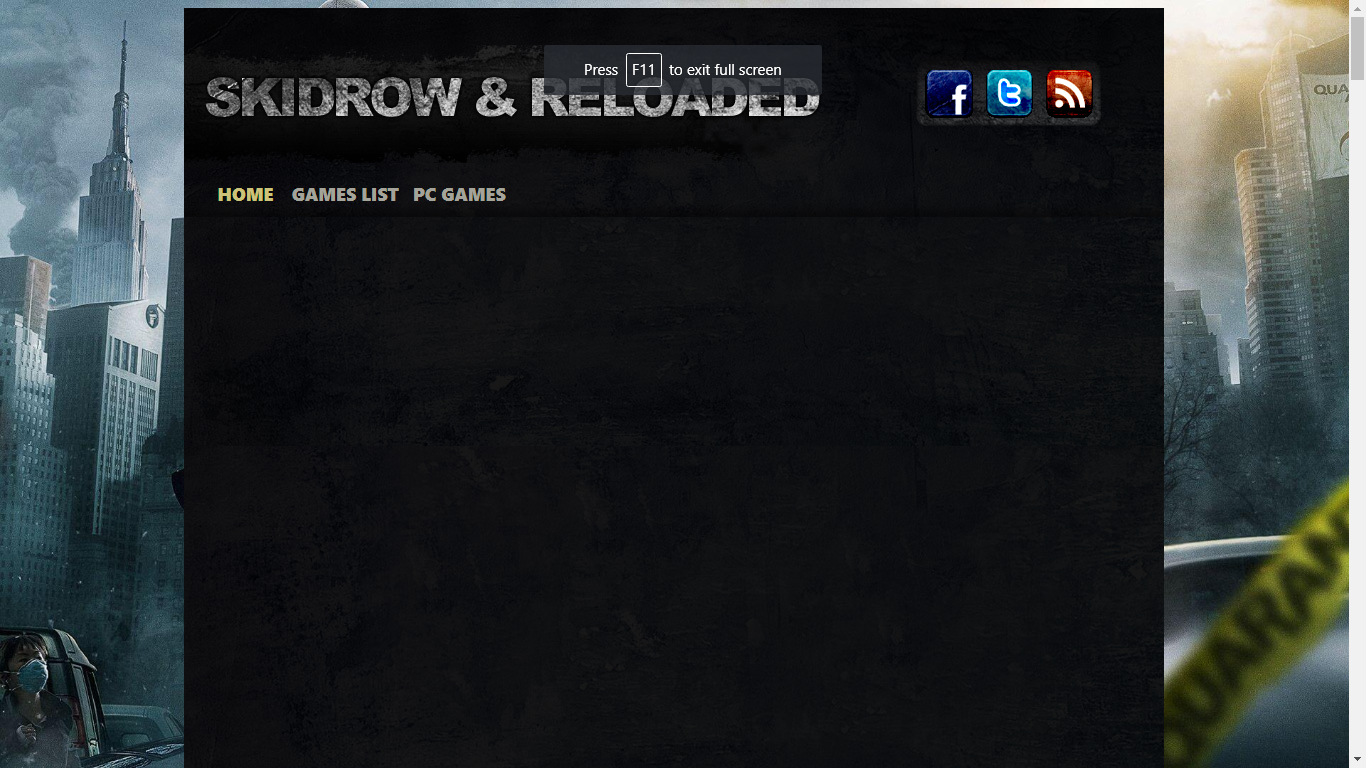
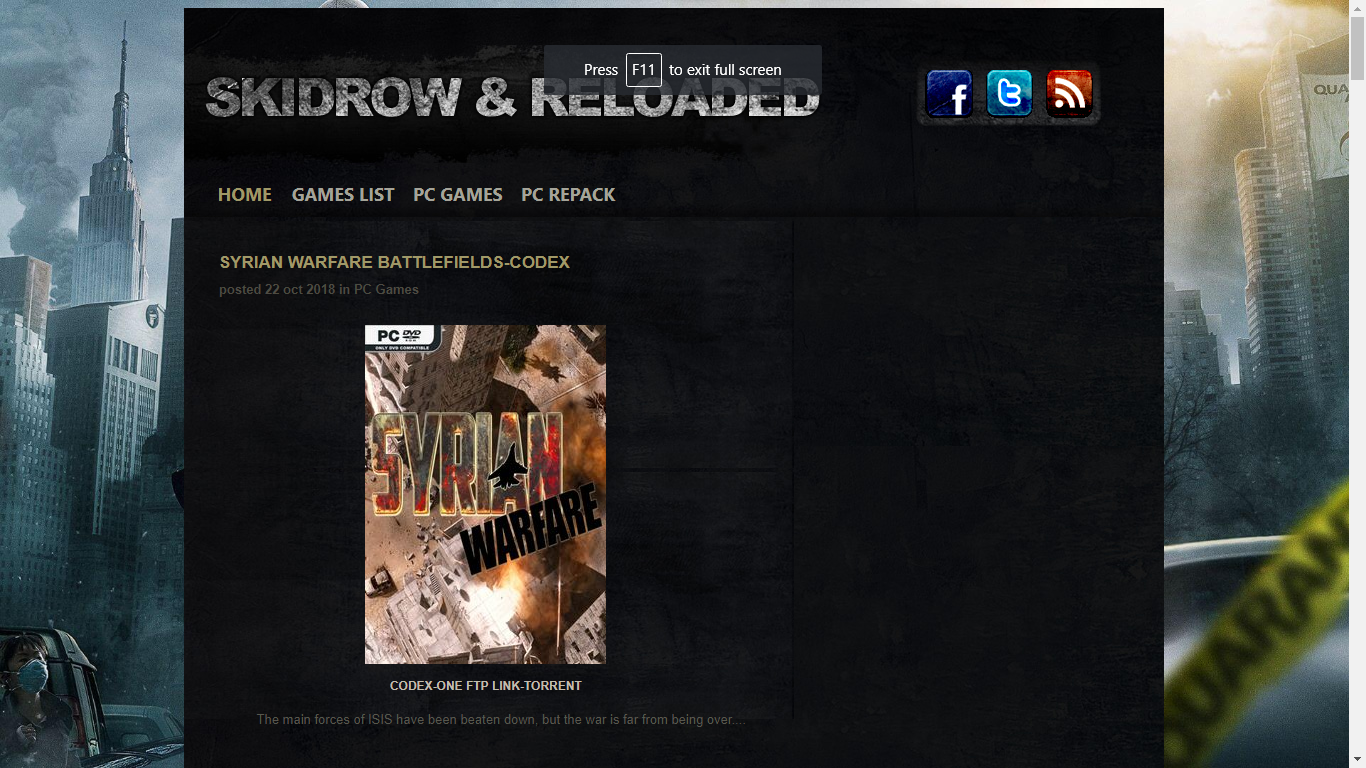
updated 23/10/18

diff --git a/skidrow_clone/style.css b/skidrow_clone/style.css
@@ -58,8 +58,8 @@ body{
     font-family: 'Segoe UI', Tahoma, Geneva, Verdana, sans-serif;
     margin-top: -3%; 
     font-size: 18px;
-    color: #ccc27a;
-    font-weight: 800;
+    color: #a09968;;
+    font-weight: 700;
     background-color: transparent;
     background-repeat:no-repeat;
     border: none;
@@ -79,7 +79,7 @@ body{
     font-family: 'Segoe UI', Tahoma, Geneva, Verdana, sans-serif;
     font-size: 18px;
     color: #a5a49a;
-    font-weight: 800;
+    font-weight: 700;
     background-color: transparent;
     background-repeat:no-repeat;
     border: none;
@@ -100,7 +100,7 @@ body{
     font-family: 'Segoe UI', Tahoma, Geneva, Verdana, sans-serif;
     font-size: 18px;
     color: #a5a49a;
-    font-weight: 800;
+    font-weight: 700;
     background-color: transparent;
     background-repeat:no-repeat;
     border: none;
@@ -121,7 +121,7 @@ body{
   font-family: 'Segoe UI', Tahoma, Geneva, Verdana, sans-serif;
   font-size: 18px;
   color: #a5a49a;
-  font-weight: 800;
+  font-weight: 700;
   background-color: transparent;
   background-repeat:no-repeat;
   border: none;
@@ -132,4 +132,49 @@ body{
 }
 .tablinks_pcre:hover{
   color: aliceblue;
+}
+
+.untouched{
+  color: #4d4b42;
+  font-family: Arial, Helvetica, sans-serif;
+  margin-top: 1%;
+  font-size: 13px;
+}
+
+/*********************    POSTS    *********************/
+
+/*post 1*/
+.post1{
+  font-family:  Arial, Helvetica, sans-serif;
+  margin-left: 3.5%;
+  margin-top: -48%;
+  font-size: 17px;
+  color: #a09968;
+  font-weight: 700;
+}
+.post1_txt{
+  font-size: 13px;
+  margin-top: 2%;
+  color: #c2beaf; 
+  font-family:  Arial, Helvetica, sans-serif;
+  font-weight: 100;
+  color: #58574e;
+  margin-left: 4%;
+  
+}
+.post1_img{
+  margin-top: 3%;
+  margin-left: 15.5%;
+}
+
+.post1_lnk{
+  font-size: 12px;
+  margin-left: 18.1%;
+  margin-top: 1%;
+  color: #c2beaf;
+}
+
+.post_bg{
+  position: static;
+
 }

diff --git a/skidrow_clone/index.html b/skidrow_clone/index.html
@@ -29,8 +29,21 @@
                 <button class="tablinks_pcg">PC GAMES</button>
                 <button class="tablinks_pcre">PC REPACK</button>
             </div>
+        </div>
+
+        <img class="post_bg" src="resource/postbg.jpg">
+        <img class="post_bg" src="resource/postbg.jpg">
+
+        <div class="post1">
+            SYRIAN WARFARE BATTLEFIELDS-CODEX<br>
+            <div class="untouched">posted 22 oct 2018 in PC Games</div>
+            <img class="post1_img" src="resource/syrianwarfare.jpg">
+            <div class="post1_lnk">CODEX-ONE FTP LINK-TORRENT</div>
+            <div class="post1_txt">The main forces of ISIS have been beaten down, but the war is far from being over....<br>
+            </div>
 
         </div>
+
     </div>
 
 </body>
